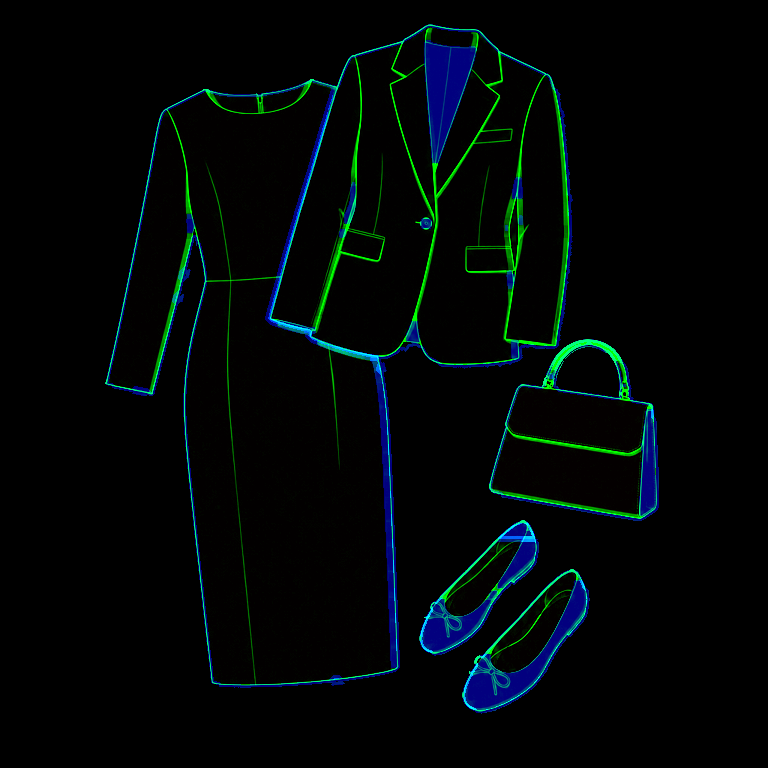
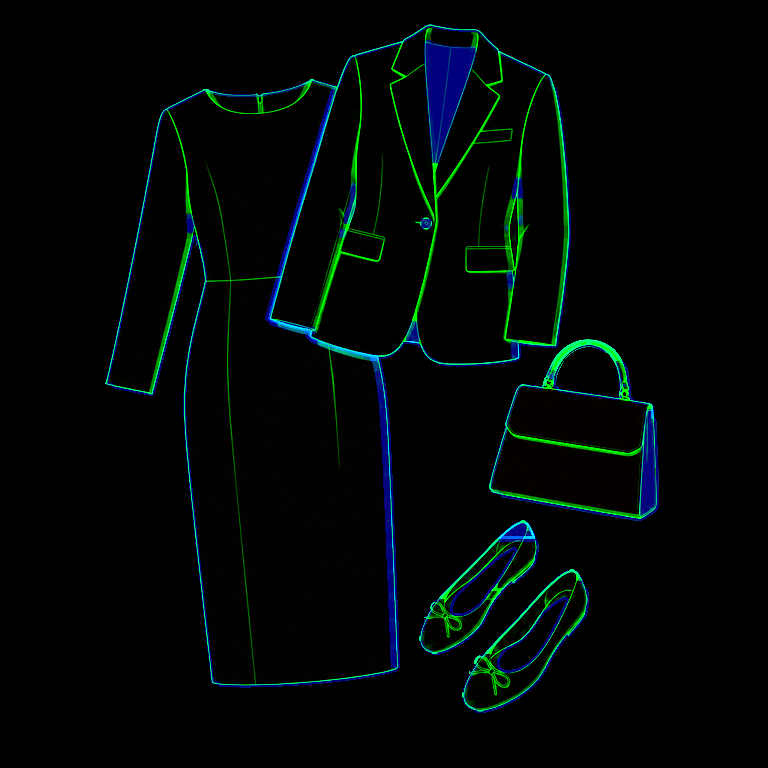
fix: exclude cast shadows and sneaker soles from illustration recoloring
Tighten sage-fabric and leather segmentation, regenerate ten masks, and bump asset cache versions. Add mask preparation tooling and regression checks for the reported red jacket / denim / burgundy sneaker outfit.

diff --git a/assets/dalha-illustrations/adapter.js b/assets/dalha-illustrations/adapter.js
@@ -15,7 +15,7 @@ export async function hydrateIllustrations(root){
  return Promise.allSettled(nodes.map(async node=>{
   const key=node.dataset.dalhaIllustration,entry=pending.get(key);if(!entry)return;
   try{
-   const [source,mask]=await Promise.all([image(BASE+entry.id+'.webp?v=1'),image(BASE+entry.id+'-layers.png?v=1')]);
+   const [source,mask]=await Promise.all([image(BASE+entry.id+'.webp?v=1'),image(BASE+entry.id+'-layers.png?v=2')]);
    if(!node.isConnected||node.dataset.dalhaIllustration!==key)return;
    const original=pixels(source),layers=pixels(mask);
    if(original.width!==layers.width||original.height!==layers.height)throw new Error('Illustration layer size mismatch');

diff --git a/index.html b/index.html
@@ -1,7 +1,7 @@
 <!DOCTYPE html>
 <html lang="ko">
 <head>
-    <script type="module" src="/assets/dalha-garments/integration.js?v=5"></script>
+    <script type="module" src="/assets/dalha-garments/integration.js?v=6"></script>
     <meta charset="UTF-8">
     <meta name="viewport" content="width=device-width, initial-scale=1.0">
     <meta http-equiv="Cache-Control" content="no-cache, no-store, must-revalidate">

diff --git a/assets/dalha-garments/integration.js b/assets/dalha-garments/integration.js
@@ -1,4 +1,4 @@
-import {decorateLook,hydrateIllustrations} from '../dalha-illustrations/adapter.js';
+import {decorateLook,hydrateIllustrations} from '../dalha-illustrations/adapter.js?v=2';
 // Approved sources stay immutable. Explicit review variants are opt-in below.
 import {renderOutfit, garmentInner, outerGeometry, escapeXml} from './engine.js';
 import {byName} from './catalog.js';

diff --git a/scripts/build_illustration_masks.py b/scripts/build_illustration_masks.py
@@ -1,0 +1,48 @@
+"""Offline mask preparation. Requires Pillow, numpy, scipy and the original Higgsfield PNGs.
+Never run against lossy screenshots or recolored output.
+"""
+from pathlib import Path
+from PIL import Image,ImageDraw
+import numpy as np,json,io
+from scipy.ndimage import grey_closing, gaussian_filter, binary_closing, binary_fill_holes, binary_dilation, distance_transform_edt, label
+import argparse
+p=argparse.ArgumentParser();p.add_argument('--sources',type=Path,required=True);args=p.parse_args()
+OUT=Path(__file__).resolve().parents[1]/'assets/dalha-illustrations'
+specs=[[r['id']] for r in json.loads((OUT/'provenance.json').read_text())]
+for spec in specs:
+ key=spec[0]
+ a=np.asarray(Image.open(args.sources/f'{key}.png').convert('RGB').resize((768,768))).astype(float)
+ r,g,b=a.transpose(2,0,1);y,x=np.indices(r.shape)
+ rose=(r-g>12)&(r-b>10)&(abs(g-b)<24)&(y<440)
+ blue=(b-r>9)&(b-g>2)&(r<210)
+ green=(g-r>0)&(g-b>6)&(r<210)
+ leather=(r-g>14)&(g-b>10)&((.2126*r+.7152*g+.0722*b)<155)
+ brown=leather&(y>350)&(x<440)
+ bag=(r-g>10)&(g-b>6)&(x>430)
+ # Neutral cast shadows are warmer (R >= G) than the sage fabric.
+ slots=['outerColor','topColor','bottomColor','shoeColor'];masks=[green,rose,blue,brown]
+ if key=='f-formal-a':slots=['outerColor','topColor','shoeColor','bagColor'];masks=[blue,rose,brown,bag]
+ if key=='f-formal-b':slots=['outerColor','topColor','shoeColor','bagColor'];masks=[green,blue,brown|(leather&(y>540)),bag&(y<540)]
+ lum=.2126*r+.7152*g+.0722*b;local=grey_closing(lum,size=(7,7));layers=np.zeros((*r.shape,3),dtype=np.uint8);regions=[]
+ for i,raw in enumerate(masks):
+  cc,count=label(raw);sizes=np.bincount(cc.ravel());good=np.where(sizes>18)[0];good=good[good!=0];raw=np.isin(cc,good)
+  assert raw.sum()>100,(key,i)
+  med=np.percentile(lum[raw],65)
+  # Fill tiny gaps and holes such as buttons, but not large garment openings.
+  closed=binary_closing(raw,iterations=1)
+  holes=binary_fill_holes(closed)&~closed;hcc,_=label(holes);hs=np.bincount(hcc.ravel());small=np.where((hs>0)&(hs<700))[0];small=small[small!=0]
+  m=closed|np.isin(hcc,small)|raw
+  m|=binary_dilation(m,iterations=2)&(lum<220)&(lum>8)
+  m&=layers[:,:,0]==0
+  # Distinguish outer boundary from interior construction lines.
+  outer=distance_transform_edt(m)<=3.2
+  ln=np.clip((local-lum-1)/max(med*.33,18),0,1)
+  # Outer line coverage also detects original dark antialiased contour pixels.
+  ln=np.maximum(ln,np.where(outer,np.clip((med-lum)/(med*.48),0,1),0))
+  clean=gaussian_filter(local*m,1)/np.maximum(gaussian_filter(m.astype(float),1),1e-6)
+  sh=gaussian_filter((clean<med*.9).astype(float),.4)
+  layers[:,:,0][m]=i+1;layers[:,:,1][m]=np.rint(ln[m]*255).astype('uint8');layers[:,:,2][m]=np.rint(sh[m]*127).astype('uint8')+outer[m].astype('uint8')*128
+  regions.append({'id':i+1,'name':slots[i],'base':np.median(a[raw],axis=0).round().astype(int).tolist(),'pixels':int(m.sum())})
+
+ buf=io.BytesIO();Image.fromarray(layers).save(buf,format='PNG');(OUT/f'{key}-layers.png').write_bytes(buf.getvalue())
+ buf=io.BytesIO();Image.fromarray(a.astype('uint8')).save(buf,format='WEBP',quality=94);(OUT/f'{key}.webp').write_bytes(buf.getvalue())

diff --git a/scripts/test_illustration_masks.py b/scripts/test_illustration_masks.py
@@ -1,0 +1,23 @@
+"""Asset regressions for recolouring spill. Run with Python + Pillow + numpy."""
+from pathlib import Path
+from PIL import Image
+import numpy as np
+
+root = Path(__file__).resolve().parents[1] / 'assets/dalha-illustrations'
+for path in root.glob('*-layers.png'):
+    mask = np.asarray(Image.open(path).convert('RGB'))
+    source = Image.open(path.with_name(path.name.replace('-layers.png', '.webp')))
+    source.load()
+    assert source.size == (mask.shape[1], mask.shape[0]) == (768, 768), path
+    assert set(np.unique(mask[:, :, 0])) == {0, 1, 2, 3, 4}, path
+    assert all(np.count_nonzero(mask[:, :, 0] == i) > 100 for i in range(1, 5)), path
+
+# Reported red bomber / blue jeans / burgundy sneakers screenshot.
+mask = np.asarray(Image.open(root / 'm-casual-b-layers.png'))[:, :, 0]
+assert mask[433, 618] == 0, 'Trouser cast shadow must retain the original neutral colour'
+assert mask[591, 159] == 0, 'Ivory sneaker sole must not receive leather colour'
+assert np.count_nonzero(mask[500:] == 1) == 0, 'No jacket colour below the jacket'
+assert mask[300, 200] == 1, 'Keep jacket recolour coverage'
+assert mask[600, 500] == 3, 'Keep denim recolour coverage'
+assert mask[610, 270] == 4, 'Keep shoe upper recolour coverage'
+print('PASS: 12 source/mask pairs and reported shadow/sole colour-spill regressions')

diff --git a/assets/dalha-illustrations/README.md b/assets/dalha-illustrations/README.md
@@ -9,3 +9,5 @@ The canvas replaces the visible SVG only after both assets and pixel rendering s
 Sources: Higgsfield-generated production artwork, September 2026. `06` and `10` are the previously approved adult male formal sources; the other ten assets match the live autumn templates. See `provenance.json` for generation IDs.
 
 Validation: `node scripts/test_fashion_illustrations.mjs` exercises the actual backend's 60 autumn recommendations across both genders and five ages (55 matches, five Derby fallbacks), unsupported shapes, deterministic colour/line rendering, asset failure and stale DOM handling. Run `python -m unittest backend.tests.test_fashion_svg_integration -q` for recommendation regressions. DOM tests use jsdom; they do not substitute for a physical mobile-device check.
+
+Mask preparation: `python scripts/build_illustration_masks.py --sources /path/to/original-pngs` (Pillow, numpy, scipy). Neutral cast shadows and ivory sneaker soles are excluded from recolouring. Run `python scripts/test_illustration_masks.py` to check asset integrity and the red-jacket shadow/sole regression.
